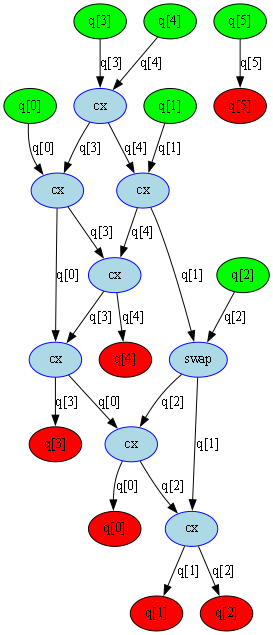
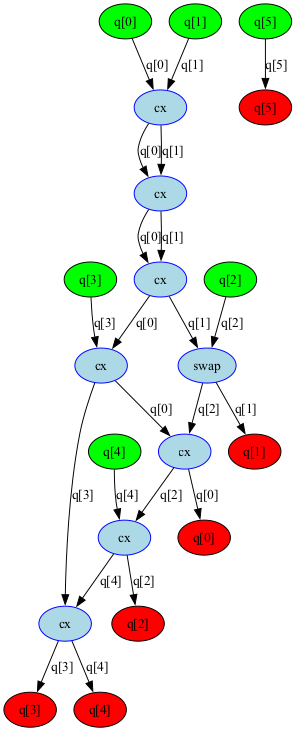
Prior to gate buffer change

diff --git a/ZCswap_gaps.py b/ZCswap_gaps.py
@@ -49,7 +49,7 @@ DECAY_RESET_INTERVAL = 5  # How often to reset all decay rates to 1.
 from enum import Enum
 
 # Dummy putting gate here as it will be used to handle single gates later on
-Gap = Enum("Gap", "GATE TARGET CONTROL FREE")
+Gap = Enum("Gap", "GATE TARGET CONTROL FREE SWAP")
 
 
 class SabreSwap(TransformationPass):
@@ -77,7 +77,6 @@ class SabreSwap(TransformationPass):
         self._bit_indices = None
         self.dist_matrix = None
         # zc -------
-        self.phy_qubits = None
         self.node_buffer = Union[DAGOpNode, None]
         self.gap_storage = dict[int, Gap]
         self.gate_storage = dict[int, DAGOpNode]
@@ -117,7 +116,7 @@ class SabreSwap(TransformationPass):
 
         print(
             Panel(
-                f"Attempting application of {new_node.name} gate on control {gate_control} and target {gate_target}",
+                f"{self.iteration}: Attempting application of {new_node.name} gate on control {gate_control} and target {gate_target}",
                 highlight=True,
             )
         )
@@ -132,11 +131,15 @@ class SabreSwap(TransformationPass):
             # self.test_rule(mapped_dag, new_node)
 
             prior = self.gate_storage[gate_control]
-            prior = _transform_gate_for_layout(
+            new_prior = _transform_gate_for_layout(
                 prior, current_layout, canonical_register
             )  # Addon
+            print("new prior:", new_prior.qargs)
             prior_control, prior_target = self.get_qubits_from_layout(
                 prior, current_layout
+            )
+            print(
+                f"new prior after layout: {self.get_qubits_from_layout(new_prior, current_layout)}"
             )
             print(f"prior gate on qubits {prior_control}, {prior_target}")
 
@@ -162,10 +165,10 @@ class SabreSwap(TransformationPass):
                 self.gap_storage[gate_target] = Gap.TARGET
 
                 # remove the prior from storage
-                self.gate_storage[prior_control], self.gate_storage[prior_target] = (
-                    [],
-                    [],
-                )
+                # self.gate_storage[prior_control], self.gate_storage[prior_target] = (
+                #     [],
+                #     [],
+                # )
                 # and put the new gate in
                 self.gate_storage[gate_control], self.gate_storage[gate_target] = (
                     new_node,
@@ -183,9 +186,9 @@ class SabreSwap(TransformationPass):
 
             prior = self.gate_storage[gate_target]
             # TODO need to debug the transform function, as it seems to be messing up the qargs
-            prior = _transform_gate_for_layout(
-                prior, current_layout, canonical_register
-            )  # Addon
+            # prior = _transform_gate_for_layout(
+            #     prior, current_layout, canonical_register
+            # )  # Addon
             prior_control, prior_target = self.get_qubits_from_layout(
                 prior, current_layout
             )
@@ -196,7 +199,7 @@ class SabreSwap(TransformationPass):
                 mapped_dag.apply_operation_back(
                     new_node.op, new_node.qargs, new_node.cargs
                 )
-                self.gap_storage[gate_control] = Gap.FREE
+                # self.gap_storage[gate_control] = Gap.FREE
                 self.gap_storage[prior_control] = Gap.CONTROL
                 self.gap_storage[prior_target] = Gap.TARGET
 
@@ -210,15 +213,15 @@ class SabreSwap(TransformationPass):
                 # Apply the prior gate and save the new one
                 mapped_dag.apply_operation_back(prior.op, prior.qargs, prior.cargs)
 
-                self.gap_storage[prior_target] = Gap.FREE
+                # self.gap_storage[prior_target] = Gap.FREE
                 self.gap_storage[gate_control] = Gap.CONTROL
                 self.gap_storage[gate_target] = Gap.TARGET
 
                 # remove the prior from storage
-                self.gate_storage[prior_control], self.gate_storage[prior_target] = (
-                    [],
-                    [],
-                )
+                # self.gate_storage[prior_control], self.gate_storage[prior_target] = (
+                #     [],
+                #     [],
+                # )
                 # and put the new gate in
                 self.gate_storage[gate_control], self.gate_storage[gate_target] = (
                     new_node,
@@ -238,6 +241,14 @@ class SabreSwap(TransformationPass):
 
             elif self.gate_storage[gate_target]:
                 prior = self.gate_storage[gate_target]
+
+            # if prior == self.node_buffer:
+            #     print("Tried to reapply same last gate")
+            #     print(self.gate_storage)
+            #     print(f"prior: {prior.op.name}, {prior.qargs}")
+            #     print(f"buffer: {self.node_buffer.op.name}, {self.node_buffer.qargs}")
+            #     print(self.gap_storage)
+            #     return
 
             if prior:
                 prior = _transform_gate_for_layout(
@@ -279,11 +290,30 @@ class SabreSwap(TransformationPass):
                 Gap.CONTROL,
                 Gap.TARGET,
             )
+            self.gate_storage[buffer_control], self.gate_storage[buffer_target] = (
+                [],
+                [],
+            )
             self.node_buffer = None
 
             # TODO Need to also remove this gate from the gate buffer, as it has negative consequences.
             # TODO Actually, rather than using a node, we could store the last affected wire, and remove both at the same time.
         # ! end of quick hack
+
+        targ1, targ2 = self.get_qubits_from_layout(new_node, current_layout)
+        # code to transform each gate that lies on the swap line
+        # for wire in (targ1, targ2):
+        #     if self.gate_storage[wire]:
+        #         storage_node = self.gate_storage[wire]
+        #         self.gate_storage[wire] = _transform_gate_for_layout(
+        #             storage_node, current_layout, canonical_register
+        #         )
+
+        print(Panel(f"Applying SWAP gate on qubits {targ1} and {targ2}"))
+
+        # modify the gaps to include swap
+        self.gap_storage[targ1], self.gap_storage[targ2] = Gap.SWAP, Gap.SWAP
+        self.gap_storage[targ1], self.gap_storage[targ2] = new_node, new_node
 
         mapped_dag.apply_operation_back(
             new_node.op, new_node.qargs, new_node.cargs
@@ -336,7 +366,7 @@ class SabreSwap(TransformationPass):
         print(self.gate_storage)
         draw_circuit(dag_to_circuit(mapped_dag), f"output{self.iteration}")
         self.iteration += 1
-        input()
+        # input()
 
         if self.fake_run:
             return node
@@ -420,16 +450,17 @@ class SabreSwap(TransformationPass):
         front_layer = dag.front_layer()
 
         # zc ---------
-        self.phy_qubits = [
+        # Doesnt need to be a class variable, as it is only used here in the initial setup
+        phy_qubits = [
             current_layout._v2p[qubit] for qubit in dag.qubits
         ]  # list of qubit nums e.g. [0, 1, 2, 3, 4, 5]
 
         self.gap_storage = {
-            qubit: Gap.FREE for qubit in self.phy_qubits
+            qubit: Gap.FREE for qubit in phy_qubits
         }  # Dictionary to store gap info
 
         self.gate_storage = {
-            idx: [] for idx in self.phy_qubits
+            idx: [] for idx in phy_qubits
         }  # dictionary to store 2 qubit gates
 
         # zc ---------
@@ -756,6 +787,11 @@ def _transform_gate_for_layout(op_node, layout, device_qreg):
     # print(f"qargs: {op_node.qargs}")
     mapped_op_node = copy(op_node)
     mapped_op_node.qargs = tuple(device_qreg[layout._v2p[x]] for x in op_node.qargs)
+
+    print(
+        f"Transformed {op_node.op.name} from {op_node.qargs} to {mapped_op_node.qargs}"
+    )
+
     return mapped_op_node
 
 
